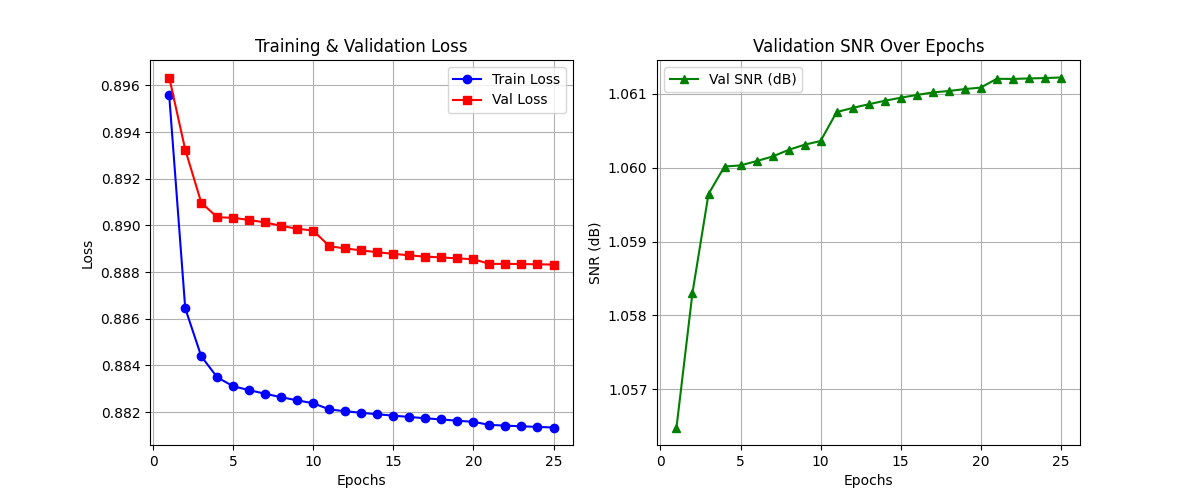
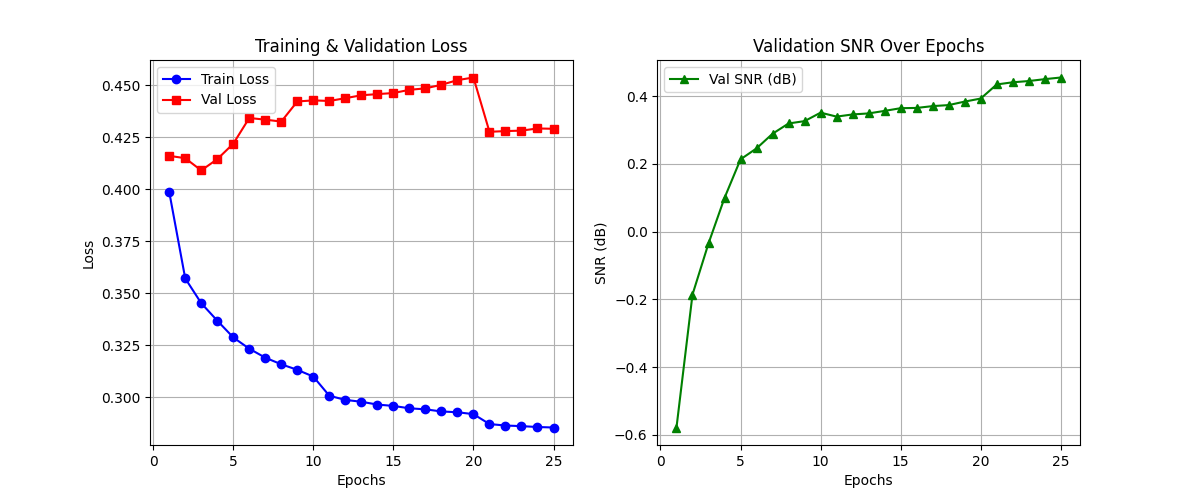
Arranging Machine Learning table metrics

diff --git a/Template/content/chapters/7_evaluation/evaluation.tex b/Template/content/chapters/7_evaluation/evaluation.tex
@@ -36,9 +36,9 @@ Both uncached and cached runs were executed, and the relevant timing metrics wer
 \hline
 \textbf{Dataset} & \textbf{Uncached} & \textbf{Cached} & \textbf{Truncation Overhead} \\
 \hline
-Static Bucketing  & 296.85 s  & 0.83 s   & N/A    \\
-Dynamic Bucketing & 581.57 s& 0.83 s  & N/A    \\
-PTO               & 288.47 s & 0.79 s  & 68.62 s  \\
+Static Bucketing  & 296.85s  & 0.83s   & N/A    \\
+Dynamic Bucketing & 581.57s& 0.83s  & N/A    \\
+PTO               & 288.47s & 0.79s  & 68.62s  \\
 \hline
 \end{tabular}
 \end{table}
@@ -151,7 +151,7 @@ The classical methods evaluated include Spectral Subtraction (SS), Wiener Filter
 \hline
 \textbf{Method} & \textbf{↑SNR} & \textbf{↓MSE} & \textbf{↑PESQ} & \textbf{↑STOI} & \textbf{↓LSD} & \textbf{Denoise Time} \\
 \hline
-Baseline     & -2.2774 & 0.005152 & 1.8451 & 0.8928 & 0.904223 & 0.56m \\
+Baseline     & -2.2774 & 0.005152 & 1.8451 & 0.8928 & 0.904223 & 56s \\
 SS          & 3.0861 & 0.001525 & 1.4535 & 0.8457 & 0.767089 & 1.01 m \\
 WF          & 0.4647 & 0.002875 & 2.0639 & 0.8889 & 0.753452 & 1.21 m \\
 MMSE-LSA    & -0.8619 & 0.003726 & 2.0238 & 0.8943 & 0.797070 & 1.39 m \\
@@ -183,16 +183,16 @@ With the classical methods evaluated, the focus now shifts to the machine learni
 \hline
 \textbf{Model} & \textbf{Train Loss} & \textbf{Val Loss} & \textbf{Val SNR} & \textbf{Training Time} \\
 \hline
-CNN         & 0.8813 & 0.8883 & 1.06 dB & 3.22 h \\
-CED         & 0.8302 & 0.8334 & 1.10 dB & 5.27 h \\
-RCED        & 0.8001 & 0.8071 & 1.11 dB & 7.32 h \\
-UNet        & 0.7941 & 0.8003 & 1.12 dB & 14.32 h \\
-ConvTasNet  & 0.0764 & 0.0760 & 4.76 dB & 13.09 h \\
+CNN         & 0.2855 & 0.4292 & 0.45 dB & 4.01 h \\
+CED         & 0.1599 & 0.1675 & 0.88 dB & 6.32 h \\
+RCED        & 0.1136 & 0.1239 & 2.69 dB & 7.43 h \\
+UNet        & 0.0477 & 0.0649 & 6.35 dB & 17.44 h \\
+ConvTasNet  & 0.0438 & 0.0478 & 9.23 dB & 1d 1.25h \\
 \hline
 \end{tabular}
 \end{table}
 
-The training outcomes summarized in Table~\ref{tab:ml_training} clearly demonstrate a consistent yet incremental improvement across the machine learning models from CNN to UNet, followed by a significant leap in performance with ConvTasNet.  
+The training outcomes summarized in Table~\ref{tab:ml_training} clearly demonstrate a consistently increamenting trend in performance as the models progress in complexity. 
 
 The CNN model was introduced as a simple baseline to validate the project’s training and evaluation pipeline. Despite its minimal architecture, it delivered solid performance and served as a reference point for more advanced models. The training plot in Figure~\ref{fig:cnn_training_plot} provides a quick visual overview of the model's learning progression. Although a small gap between training and validation loss is observed, which might suggest mild overfitting. The magnitude of this gap (0.007) is negligible, and the model retains good generalization performance, making it a reliable benchmark. A similar trend is observed across the remaining models, with no significant signs of overfitting.
 
@@ -248,11 +248,11 @@ Following the training phase, each machine learning model was evaluated using th
 \hline
 \textbf{Model} & \textbf{↑SNR} & \textbf{↓MSE} & \textbf{↑PESQ} & \textbf{↑STOI} & \textbf{↓LSD} & \textbf{Denoise Time} \\
 \hline
-CNN         & 0.4715  & 0.002340 & 1.1906 & 0.7351 & 0.9639 & 01.28 m \\
-CED         & 0.8615  & 0.002138 & 1.1626 & 0.7847 & 0.9210 & 01.24 m \\
-RCED        & 0.9655  & 0.002088 & 1.2825 & 0.8115 & 0.9031 & 01.29 m \\
-UNet        & 0.9844  & 0.002079 & 1.3273 & 0.7983 & 0.9206 & 01.38 m \\
-ConvTasNet  & 17.9050 & 0.000063 & 2.3001 & 0.9001 & 0.6881 & 01.44 m \\
+CNN         & 4.6432  & 0.001344 & 1.7410 & 0.8073 & 0.795551 & 1.11 m \\
+CED         & 13.1850  & 0.000161 & 1.6780 & 0.8386 & 0.765542 & 1.05 m \\
+RCED        & 14.5285  & 0.000117 & 2.0542 & 0.8677 & 0.647985 & 1.14 m \\
+UNet        & 16.9872  & 0.000069 & 2.1384 & 0.8940 & 0.707572 & 1.27 m \\
+ConvTasNet  & 18.0607 & 0.000063 & 2.4329 & 0.9112 & 0.674051 & 2.19 m \\
 \hline
 \end{tabular}
 \end{table}

diff --git a/.Project/config.py b/.Project/config.py
@@ -26,7 +26,7 @@ NUM_BUCKET = 5  # Number of dynamic buckets (dynamic only)
 
 
 # Model Parameters
-MODEL = "ConvTasNet"  # OPTIONS: "CNN", "CED", "RCED", "UNet", "ConvTasNet"
+MODEL = "CNN"  # OPTIONS: "CNN", "CED", "RCED", "UNet", "ConvTasNet"
 EPOCHS = 10  # Number of epochs to train the model
 LEARNING_RATE = 1e-3  # Learning rate for the model
 SCHEDULER = True  # Use a learning rate scheduler
@@ -44,7 +44,7 @@ METRICS_PTH = (
 )
 
 # Single File Denoising
-SINGLE = True  # Denoise a single audio file
+SINGLE = False  # Denoise a single audio file
 SPEAKER_ID = "p232_334"  # Speaker ID for the audio file
 NOISY_PTH = DATASET_DIR + "/noisy_testset_wav/" +  SPEAKER_ID + ".wav"  # Path to the noisy audio file
 CLEAN_PTH = DATASET_DIR + "/clean_testset_wav/" + SPEAKER_ID + ".wav"  # Path to the clean audio file
